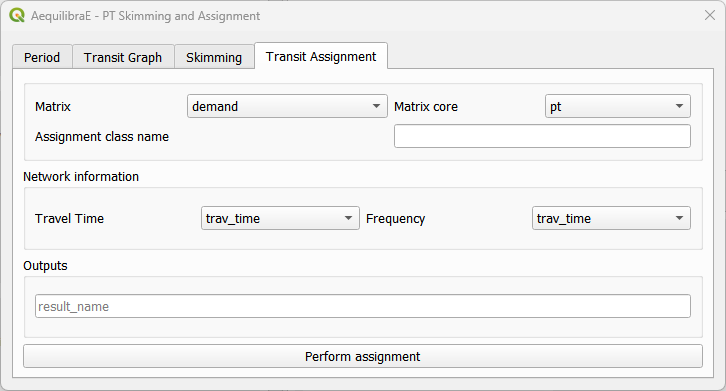
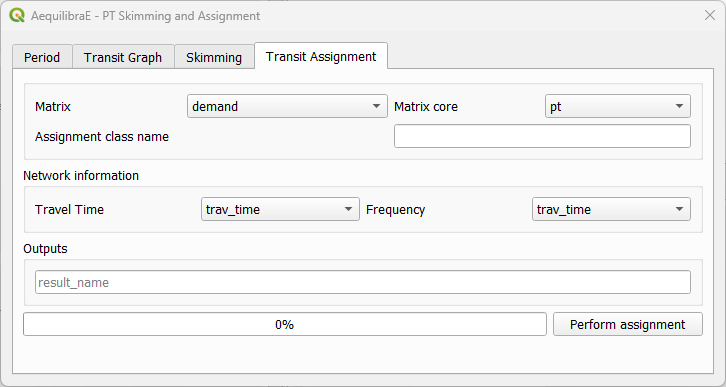
update docs

diff --git a/qaequilibrae/modules/public_transport_procedures/transit_assignment_dialog.py b/qaequilibrae/modules/public_transport_procedures/transit_assignment_dialog.py
@@ -164,8 +164,9 @@ class TransitAssignDialog(QDialog, FORM_CLASS):
             self.configs["line_method"] = self.cob_line_methods.currentText().lower()
             mode = self.cob_mode.currentText()
             self.configs["mode_id"] = self.all_modes[mode]
-            self.configs["mat_name"] = self.proj_matrices.at[self.cob_matrices.currentIndex(), "file_name"]
-            self.configs["mat_core"] = [self.cob_matrix_core.currentText()]
+            if action == "assign":
+                self.configs["mat_name"] = self.proj_matrices.at[self.cob_matrices.currentIndex(), "file_name"]
+                self.configs["mat_core"] = [self.cob_matrix_core.currentText()]
 
             self.worker_thread = TransitAssignProcedure(self.iface.mainWindow(), self.project, self.configs, action)
             self.run_thread()
